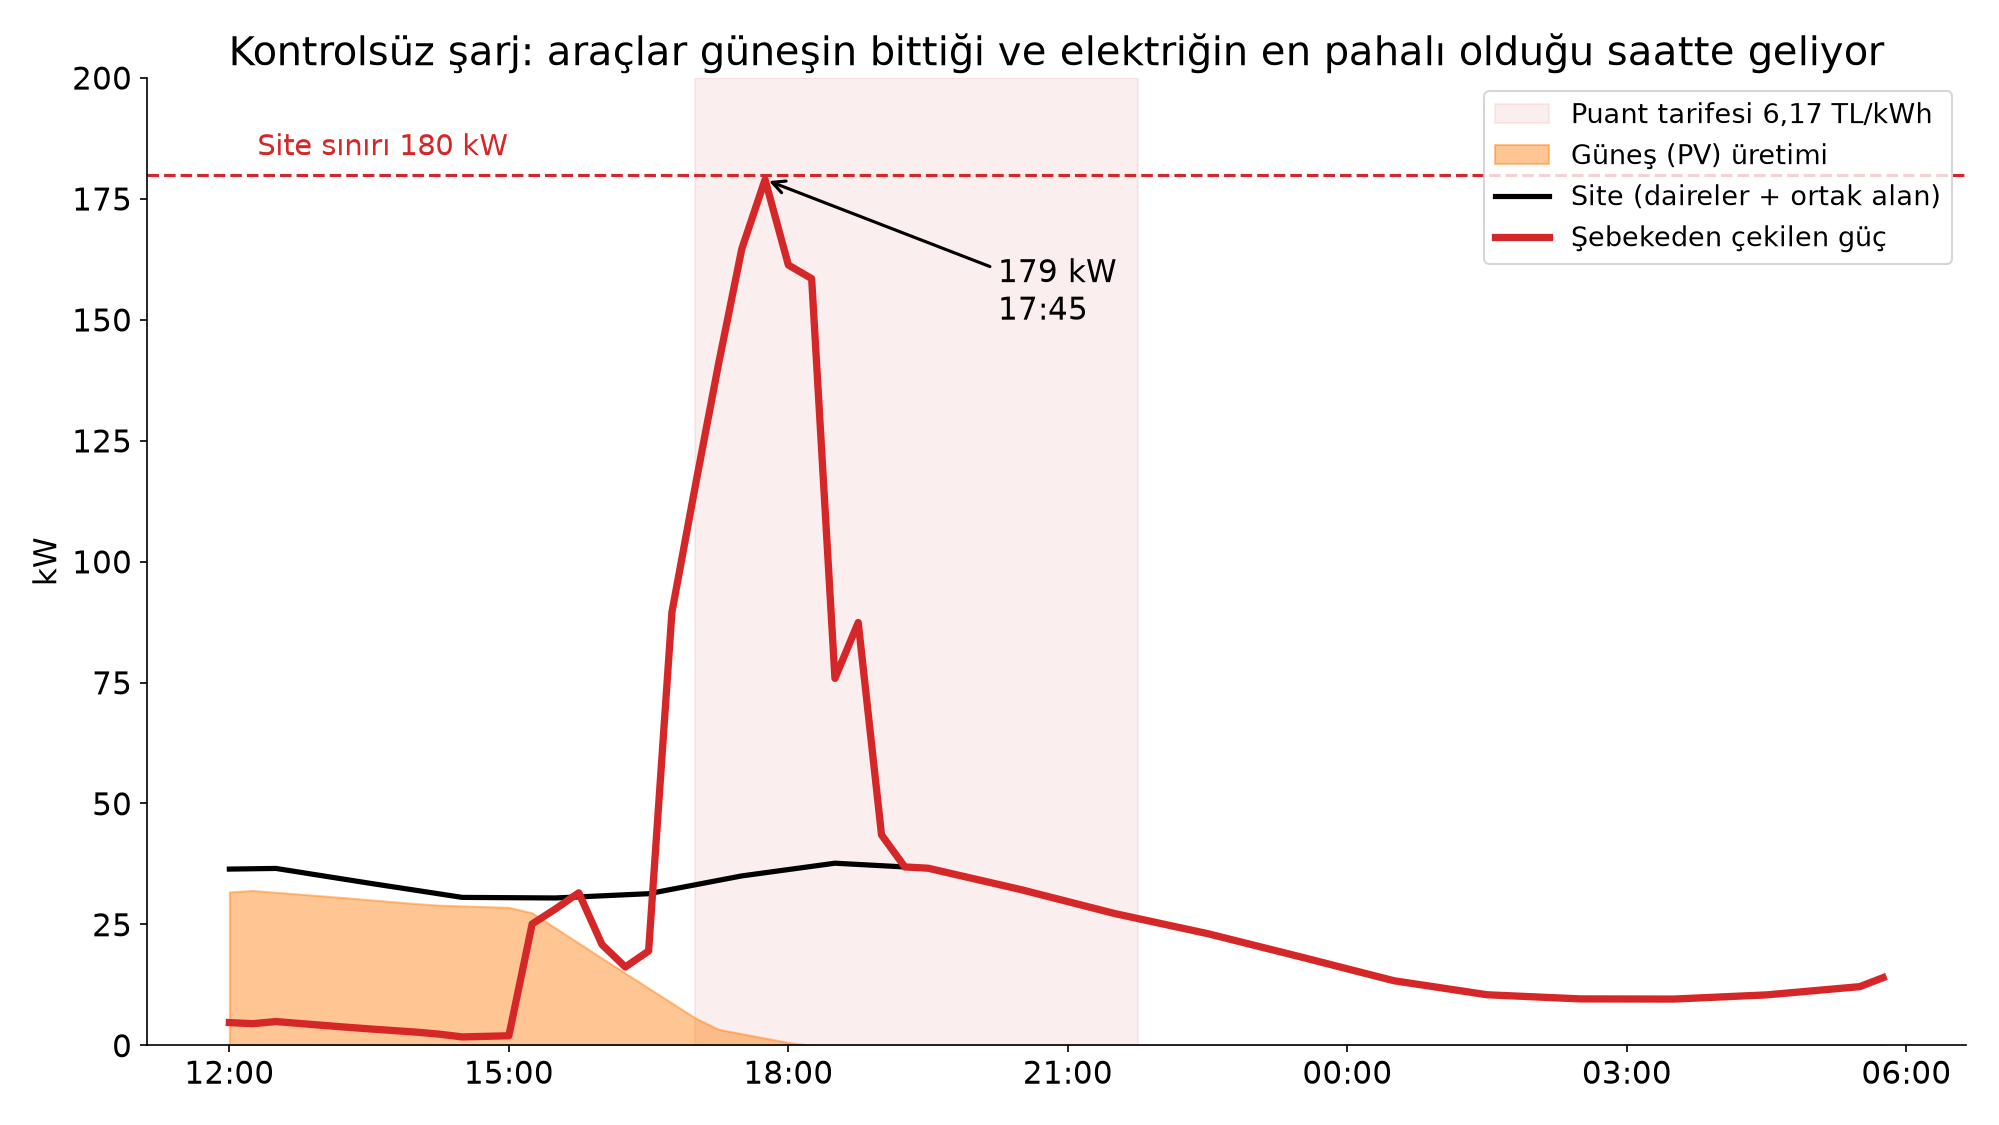
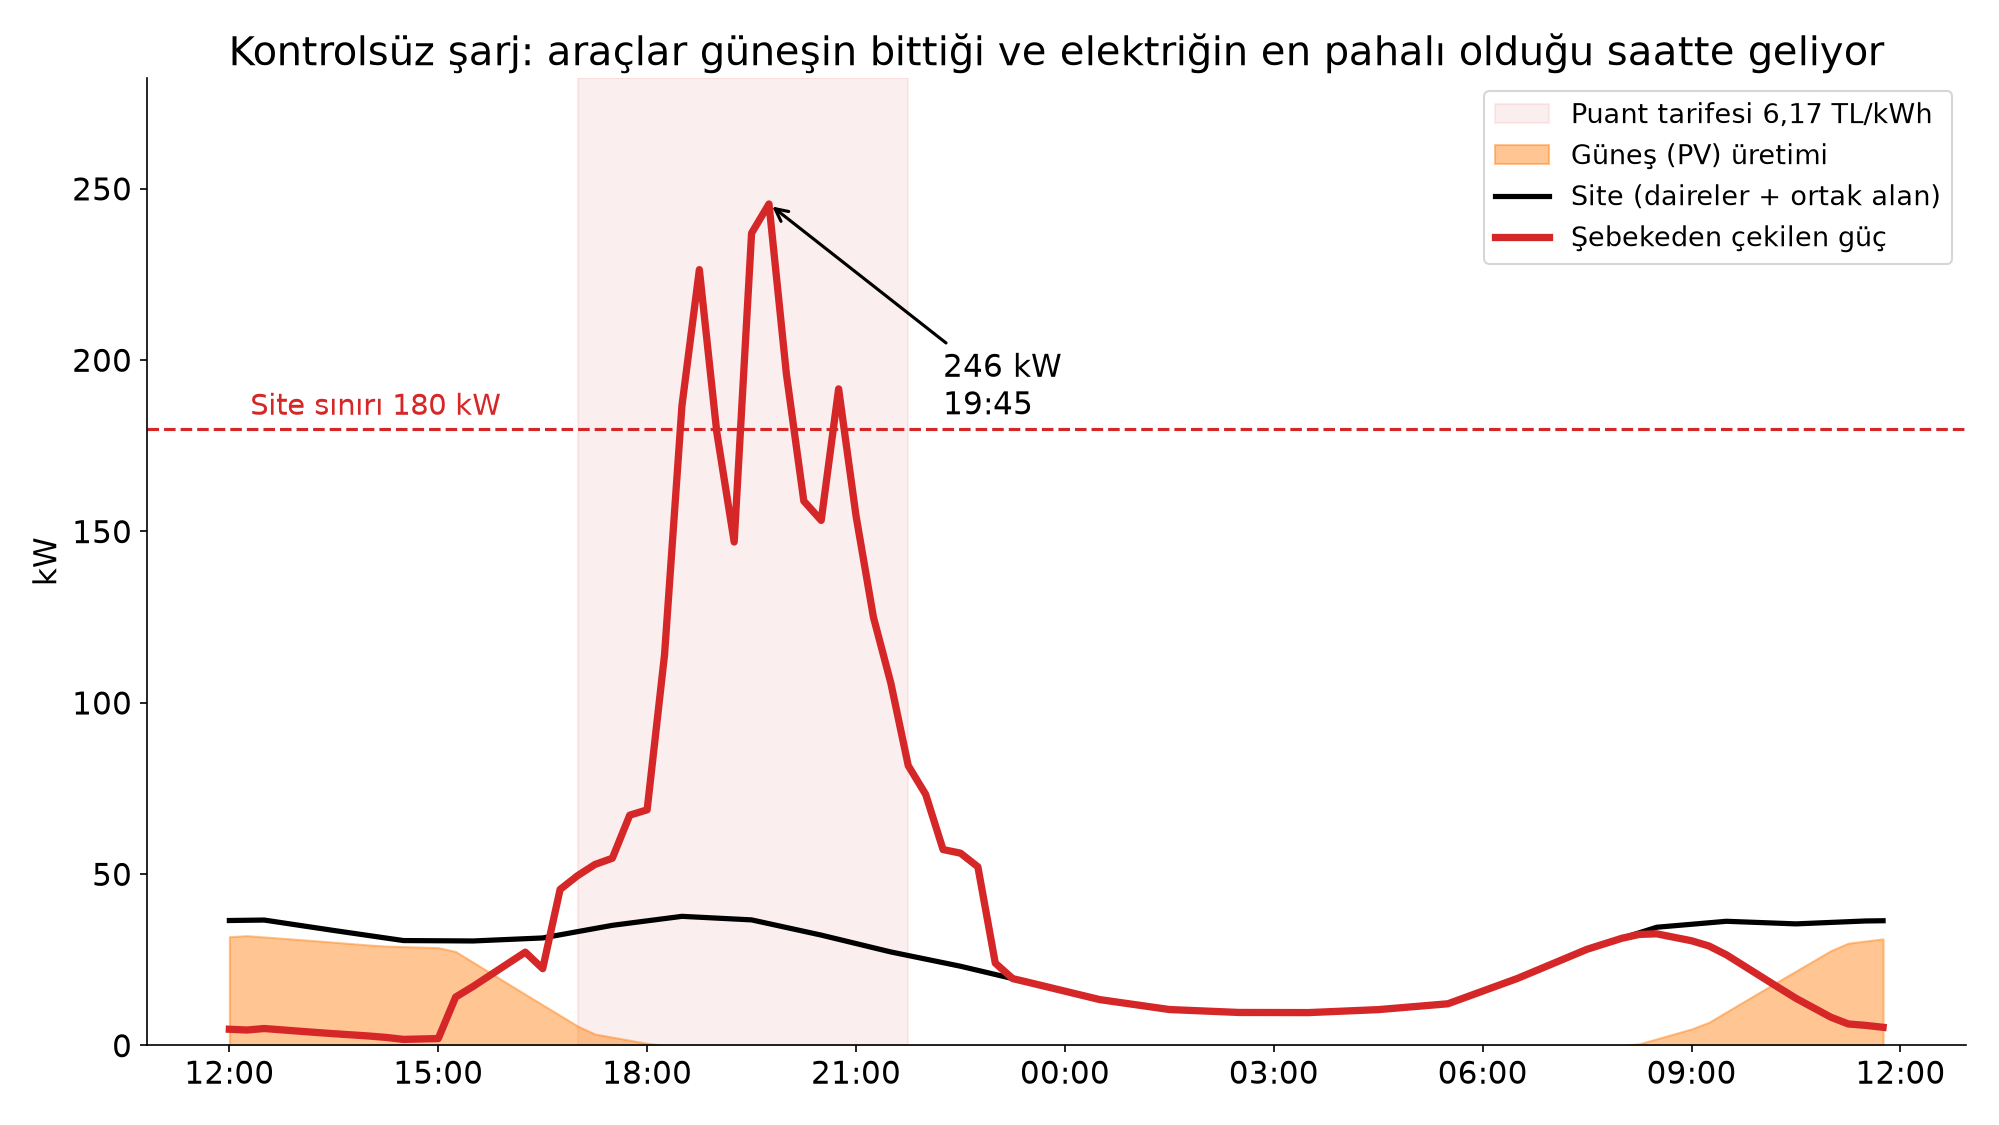
YM-1 Hafta 8-10: sonuçlar gerçek istasyon (YM-2) ve EMS (YM-3) ile yeniden üretildi
- Senaryo tablosu S1-S6 yıllık, pandapower ile; araçlara verilen enerji satırı ve okuma notu
- Duyarlılık: batarya analizi S4 ile; geçici batarya kuralı kaldırıldı
- Sunum grafikleri gerçek istasyonla; başlık ve eksenler veriden
- Hafta 9 raporu ve Veri ve Yöntem bölümü yeni sonuçlarla güncellendi

diff --git a/scripts/ym1_sunum_grafikleri.py b/scripts/ym1_sunum_grafikleri.py
@@ -19,8 +19,7 @@ from microgrid.data import seasons
 from microgrid.data.inputs import build_inputs
 from microgrid.kpi import annualize, compute
 from microgrid.sim.loop import run
-from microgrid.sim.mocks import MockStation, SimpleBattery, UncontrolledEMS
-from microgrid.sim.scenarios import Scenario
+from microgrid.sim.scenarios import SCENARIOS, Scenario
 
 plt.rcParams.update({"font.size": 15, "axes.titlesize": 19, "axes.labelsize": 15, "legend.fontsize": 13,
                      "axes.spines.top": False, "axes.spines.right": False})
@@ -45,13 +44,13 @@ def day_index(start):
 # 1. Sorun: araçlar PV'nin bittiği ve elektriğin en pahalı olduğu saatte geliyor (Aralık temsili günü)
 c = copy.deepcopy(cfg)
 idx = day_index("2023-12-20 12:00")
-s2 = run(c, build_inputs(c, idx), MockStation(c, idx[0]), UncontrolledEMS(), SimpleBattery(c)).steps
-# 12:00 -> 06:00: sabahki ikinci tepe sahte istasyondan (akşam sırada kalan araçlar), sunumda gösterilmiyor
-s2 = s2.iloc[: 18 * 4]
+sc2 = SCENARIOS["S2 Kontrolsüz şarj"]   # YM-2 istasyonu, kontrolsüz şarj
+s2 = run(c, build_inputs(c, idx), sc2.station(c, idx[0]), sc2.ems(c), sc2.battery(c)).steps
 x = np.arange(len(s2)) / 4
 fig, ax = plt.subplots(figsize=SIZE)
+top = max(s2["grid_kw"].max(), limit) * 1.15
 puant = (s2.index.hour >= 17) & (s2.index.hour < 22)
-ax.fill_between(x, 0, 200, where=puant, color="tab:red", alpha=0.08, step="post", label="Puant tarifesi 6,17 TL/kWh")
+ax.fill_between(x, 0, top, where=puant, color="tab:red", alpha=0.08, step="post", label="Puant tarifesi 6,17 TL/kWh")
 ax.fill_between(x, s2["pv_kw"], color="tab:orange", alpha=0.45, label="Güneş (PV) üretimi")
 ax.plot(x, s2["base_load_kw"], color="black", lw=2.5, label="Site (daireler + ortak alan)")
 ax.plot(x, s2["grid_kw"], color="tab:red", lw=3.5, label="Şebekeden çekilen güç")
@@ -59,10 +58,10 @@ ax.axhline(limit, color="tab:red", ls="--", lw=1.5)
 ax.text(0.3, limit + 4, f"Site sınırı {limit} kW", color="tab:red", fontsize=14)
 peak = s2["grid_kw"].idxmax()
 ax.annotate(f"{s2['grid_kw'].max():.0f} kW\n{peak:%H:%M}", xy=(x[s2.index.get_loc(peak)], s2["grid_kw"].max()),
-            xytext=(x[s2.index.get_loc(peak)] + 2.5, 150), arrowprops={"arrowstyle": "->", "lw": 1.5}, fontsize=15)
-ticks = np.arange(0, 19, 3)
+            xytext=(x[s2.index.get_loc(peak)] + 2.5, 0.75 * s2["grid_kw"].max()), arrowprops={"arrowstyle": "->", "lw": 1.5}, fontsize=15)
+ticks = np.arange(0, 25, 3)
 ax.set_xticks(ticks, [f"{(12 + t) % 24:02d}:00" for t in ticks])
-ax.set(ylim=(0, 200), ylabel="kW", title="Kontrolsüz şarj: araçlar güneşin bittiği ve elektriğin en pahalı olduğu saatte geliyor")
+ax.set(ylim=(0, top), ylabel="kW", title="Kontrolsüz şarj: araçlar güneşin bittiği ve elektriğin en pahalı olduğu saatte geliyor")
 ax.legend(loc="upper right")
 save(fig, "ym1-1-sorun-aralik-gunu.png")
 
@@ -88,7 +87,7 @@ fig.suptitle(f"İstasyonun etkisi: maliyet {ratio('maliyet_tl')} katına, tepe y
 save(fig, "ym1-2-istasyon-etkisi.png")
 
 # 3. Duyarlılık: araç sayısı ve tepe yük
-df = sweep(cfg, Scenario("S2"), "vehicles.count", [0, 5, 10, 15, 20, 25, 30])
+df = sweep(cfg, Scenario("S2"), "vehicles.count", [0, 2, 4, 6, 8, 10, 15, 20, 25, 30])
 fig, ax = plt.subplots(figsize=SIZE)
 peaks = df["tepe_alim_kw"].astype(float)
 ax.plot(df.index, peaks, marker="o", ms=10, lw=3, color="black", label="Yılın en yüksek şebeke yükü")
@@ -96,8 +95,10 @@ ax.axhline(limit, color="tab:red", ls="--", lw=2, label=f"Site sınırı {limit}
 ax.fill_between(df.index, limit, peaks, where=peaks > limit, color="tab:red", alpha=0.2, interpolate=True)
 ax.axvline(cfg["vehicles"]["count"], color="gray", ls=":", lw=2)
 ax.text(cfg["vehicles"]["count"] + 0.3, 30, "Mevcut tasarım\n(20 araç)", color="gray", fontsize=14)
+over = peaks[peaks > limit]
+first = f"{over.index[0]} araçta" if len(over) else "incelenen aralıkta"
 ax.set(xlabel="Araç sayısı", ylabel="kW", ylim=(0, peaks.max() * 1.15),
-       title="Kontrolsüz şarjda 20 araç sınırın kıyısında, 25 araçta site sınırı aşılıyor")
+       title=f"Kontrolsüz şarjda site sınırı {first} aşılıyor (mevcut tasarım {cfg['vehicles']['count']} araç)")
 ax.legend(loc="upper left")
 save(fig, "ym1-3-arac-sayisi.png")
 
@@ -107,8 +108,9 @@ full_cfg = copy.deepcopy(c1)
 full_cfg["inputs"]["mode"] = "actual"
 year = cfg["loads"]["year"]
 idx = pd.date_range(pd.Timestamp(f"{year}-01-01", tz="Europe/Istanbul"), periods=365 * 96, freq="15min")
-full = compute(run(full_cfg, build_inputs(full_cfg, idx), MockStation(full_cfg, idx[0]), UncontrolledEMS(),
-                   SimpleBattery(full_cfg)).steps, full_cfg)
+s1 = Scenario("S1")
+full = compute(run(full_cfg, build_inputs(full_cfg, idx), s1.station(full_cfg, idx[0]), s1.ems(full_cfg),
+                   s1.battery(full_cfg)).steps, full_cfg)
 errs = {}
 for n, label in [(1, "8 gün\nmevsim × gün tipi"), (2, "16 gün\n+ güneşli/bulutlu"), (3, "24 gün\n+ bulutlu/orta/güneşli")]:
     k, _ = run_year(scenario_config(c1, Scenario("S1"), {"inputs.sky_classes": n}), Scenario("S1"))

diff --git a/scripts/ym1_hafta9_duyarlilik.py b/scripts/ym1_hafta9_duyarlilik.py
@@ -1,9 +1,8 @@
 """Hafta 9 (YM-1): duyarlılık analizi. Araç sayısı, PV gücü ve batarya boyutu yıllık KPI'ları nasıl değiştiriyor?
 
 Her nokta 24 temsili günden yıllık tahmin (data/seasons.py, kpi.annualize). Hız için yük akışı yok.
-- Araç sayısı ve PV gücü: Senaryo 2 (kontrolsüz şarj, sahte istasyon).
-- Batarya boyutu: senaryo listesinde (sim/scenarios.py) YM-3'ün "S4 Akıllı şarj + batarya" senaryosu varsa onunla;
-  yoksa GEÇİCİ basit batarya kuralıyla (aşağıda). YM-3'ün EMS'i ana koda girince betik kendiliğinden onu kullanır.
+- Araç sayısı ve PV gücü: Senaryo 2 (kontrolsüz şarj, YM-2 istasyonu).
+- Batarya boyutu: Senaryo 4 (YM-3 kural tabanlı EMS + batarya, YM-2 istasyonu).
 
 Önce veri:  python -m microgrid.data
 Sonra:      python scripts/ym1_hafta9_duyarlilik.py
@@ -19,42 +18,17 @@ import matplotlib.pyplot as plt
 
 from microgrid.analysis import run_year, scenario_config, sweep
 from microgrid.config import REPO_ROOT, load_config
-from microgrid.data.tariff import period_at
-from microgrid.interfaces import Decision
-from microgrid.sim.mocks import SimpleBattery, UncontrolledEMS
+from microgrid.sim.mocks import SimpleBattery
 from microgrid.sim.scenarios import SCENARIOS, Scenario
-
-
-class BatteryRuleEMS(UncontrolledEMS):
-    """GEÇİCİ (YM-3 EMS'i gelene kadar): araçlar kontrolsüz; batarya PV fazlasını saklar, puantta alımı karşılar.
-
-    Gece şebekeden şarj etmez; bu yüzden kışın PV az olduğunda bataryanın etkisi sınırlı kalır.
-    """
-
-    def __init__(self, cfg):
-        self.cfg = cfg
-
-    def decide(self, inp):
-        ev = super().decide(inp).ev_kw
-        net = inp.base_load_kw + sum(ev.values()) - inp.pv_kw       # bataryasız şebeke alımı
-        if net < 0:
-            bess = -net                                             # fazla PV -> bataryaya
-        elif period_at(self.cfg, inp.ctx.hour)["name"] == "puant":
-            bess = -net                                             # puantta alımı bataryadan karşıla
-        else:
-            bess = 0.0
-        return Decision(ev_kw=ev, bess_kw=bess)
-
 
 cfg = load_config()
 s2 = Scenario("S2 kontrolsüz")
-s4 = next((sc for name, sc in SCENARIOS.items() if name.startswith("S4")), None)
-s_bess = s4 or Scenario("S2 + batarya kuralı (geçici)", ems=lambda c: BatteryRuleEMS(c),
-                        battery=lambda c: SimpleBattery(c))
+s_bess = SCENARIOS["S4 Akıllı şarj + batarya"]
 
 
 def battery_sweep(scenario, path, values):
-    """Batarya kapasitesi 0 noktası, 0 kWh'i kaldırabilen SimpleBattery ile ("batarya yok") hesaplanır."""
+    """Batarya kapasitesi 0 noktası "batarya yok" olarak hesaplanır: YM-3'ün BESS'i 0 kWh'te sıfıra böler,
+    SimpleBattery ise 0 kapasitede hiçbir şey yapmaz."""
     rows = []
     if 0 in values:
         no_bess = dataclasses.replace(scenario, battery=lambda c: SimpleBattery(c))

diff --git a/scripts/ym1_hafta8_senaryolar.py b/scripts/ym1_hafta8_senaryolar.py
@@ -5,9 +5,14 @@ YM-2 istasyonu ve YM-3 EMS'i oraya eklendikçe tablo kendiliğinden genişler; B
 olmayan sütunları "bekleniyor" diye göstermek için. Geçici (sahte modülle çalışan) senaryolar dipnotla işaretlenir.
 
 Önce veri:  python -m microgrid.data
-Sonra:      python scripts/ym1_hafta8_senaryolar.py
+Sonra:      python scripts/ym1_hafta8_senaryolar.py            (~30 dk; MILP senaryoları yavaş)
+            python scripts/ym1_hafta8_senaryolar.py --kayitli  (yalnızca tabloyu results/senaryo_tablosu.csv'den yeniden yazar)
 Çıktı: results/senaryo_tablosu.csv, docs/raporlar/hafta8-ym1-senaryolar.md (rapora girecek tablo)
 """
+import sys
+
+import pandas as pd
+
 from microgrid.analysis import scenario_table
 from microgrid.config import REPO_ROOT, load_config
 from microgrid.grid import PandapowerGrid
@@ -19,6 +24,7 @@ BEKLENEN = [b for b in BEKLENEN if not any(name.startswith(b[:2]) for name in SC
 ROWS = {  # rapordaki tablo: (KPI, başlık, biçim)
     "maliyet_tl": ("Yıllık maliyet", "{:,.0f} TL"),
     "tepe_alim_kw": ("Yılın tepe alımı", "{:.0f} kW"),
+    "arac_sarj_kwh": ("Araçlara verilen enerji", "{:,.0f} kWh"),
     "alim_puant_kwh": ("Puantta alım", "{:,.0f} kWh"),
     "arac_sarj_puant_payi": ("Araç şarjının puant payı", "%{:.0%}"),
     "yenilenebilir_payi": ("Yenilenebilir payı", "%{:.0%}"),
@@ -46,10 +52,13 @@ def fmt(value, pattern):
 
 cfg = load_config()
 scenarios = list(SCENARIOS.values())
-table = scenario_table(scenarios, cfg, grid=PandapowerGrid(cfg))
 out_csv = REPO_ROOT / "results" / "senaryo_tablosu.csv"
-out_csv.parent.mkdir(exist_ok=True)
-table.to_csv(out_csv)
+if "--kayitli" in sys.argv:
+    table = pd.read_csv(out_csv, index_col=0)
+else:
+    table = scenario_table(scenarios, cfg, grid=PandapowerGrid(cfg))
+    out_csv.parent.mkdir(exist_ok=True)
+    table.to_csv(out_csv)
 
 names = [s.name for s in scenarios]
 header = "| KPI | " + " | ".join(names + BEKLENEN) + " |"
@@ -67,7 +76,9 @@ out_md.write_text(
     f"{md}\n\n"
     + "".join(f"- {s.name}: {s.description}" + (" **Geçici:** sahte modülle çalışıyor.\n" if s.temporary and "GEÇİCİ" not in s.description else "\n")
               for s in scenarios)
-    + "\n\"bekleniyor\" sütunları YM-2 istasyon modeli ve YM-3 EMS'i senaryo listesine eklenince aynı betikle dolacak.\n",
+    + ("\n\"bekleniyor\" sütunları ilgili modüller senaryo listesine eklenince aynı betikle dolacak.\n" if BEKLENEN else "")
+    + "\n**Okurken dikkat:** \"Araçlara verilen enerji\" senaryolar arasında farklı. Bir EMS araçlara daha az enerji "
+    "veriyorsa maliyeti de düşük çıkar; maliyet karşılaştırması bu satırla birlikte okunmalı.\n",
     encoding="utf-8",
 )
 print(md)

diff --git a/docs/raporlar/hafta8-ym1-senaryolar.md b/docs/raporlar/hafta8-ym1-senaryolar.md
@@ -2,21 +2,25 @@
 
 Bandırma, 24 temsili gün (4 mevsim × 2 gün tipi × 3 gökyüzü) → yıl; pandapower yük akışıyla. Üreten betik: `scripts/ym1_hafta8_senaryolar.py`.
 
-| KPI | S1 Temel (araç yok) | S2 Kontrolsüz şarj | S3 Akıllı şarj (geçici) | S4 akıllı şarj + batarya | S5 optimizasyonlu EMS | S6 V2G |
+| KPI | S1 Temel (araç yok) | S2 Kontrolsüz şarj | S3 Akıllı şarj | S4 Akıllı şarj + batarya | S5 Optimizasyon (MILP) | S6 V2G (MILP) |
 | --- | --- | --- | --- | --- | --- | --- |
-| Yıllık maliyet | 524.955 TL | 1.248.705 TL | 999.098 TL | bekleniyor | bekleniyor | bekleniyor |
-| Yılın tepe alımı | 38 kW | 179 kW | 153 kW | bekleniyor | bekleniyor | bekleniyor |
-| Puantta alım | 41.861 kWh | 115.296 kWh | 41.861 kWh | bekleniyor | bekleniyor | bekleniyor |
-| Araç şarjının puant payı | — | %53 | %1 | bekleniyor | bekleniyor | bekleniyor |
-| Yenilenebilir payı | %42 | %26 | %26 | bekleniyor | bekleniyor | bekleniyor |
-| Öz tüketim | %63 | %68 | %68 | bekleniyor | bekleniyor | bekleniyor |
-| Site sınırı (180 kW) aşımı | 0 kWh | 0 kWh | 0 kWh | bekleniyor | bekleniyor | bekleniyor |
-| En düşük gerilim | 0,988 p.u. | 0,972 p.u. | 0,976 p.u. | bekleniyor | bekleniyor | bekleniyor |
-| En yüksek kablo yüklenmesi | %28 | %80 | %68 | bekleniyor | bekleniyor | bekleniyor |
-| En yüksek trafo yüklenmesi | %13 | %47 | %39 | bekleniyor | bekleniyor | bekleniyor |
+| Yıllık maliyet | 524.955 TL | 1.774.527 TL | 1.146.916 TL | 983.224 TL | 910.695 TL | 910.327 TL |
+| Yılın tepe alımı | 38 kW | 246 kW | 163 kW | 163 kW | 180 kW | 180 kW |
+| Araçlara verilen enerji | 0 kWh | 215.384 kWh | 177.214 kWh | 177.214 kWh | 203.687 kWh | 206.087 kWh |
+| Puantta alım | 41.861 kWh | 235.436 kWh | 46.737 kWh | 11.098 kWh | 545 kWh | 0 kWh |
+| Araç şarjının puant payı | — | %90 | %3 | %3 | %2 | %2 |
+| Yenilenebilir payı | %42 | %22 | %24 | %29 | %30 | %30 |
+| Öz tüketim | %63 | %67 | %67 | %82 | %91 | %91 |
+| Site sınırı (180 kW) aşımı | 0 kWh | 14.587 kWh | 0 kWh | 0 kWh | 0 kWh | 0 kWh |
+| En düşük gerilim | 0,988 p.u. | 0,960 p.u. | 0,973 p.u. | 0,973 p.u. | 0,969 p.u. | 0,969 p.u. |
+| En yüksek kablo yüklenmesi | %28 | %117 | %81 | %81 | %94 | %94 |
+| En yüksek trafo yüklenmesi | %13 | %64 | %42 | %42 | %47 | %47 |
 
 - S1 Temel (araç yok): Karşılaştırma tabanı: istasyon boş, yalnızca PV + sabit yük + şebeke.
-- S2 Kontrolsüz şarj: Araç geldiği an tam güçle şarj olur, batarya kullanılmaz. Sorunun görüldüğü senaryo. **Geçici:** sahte modülle çalışıyor.
-- S3 Akıllı şarj (geçici): Gece tarifesine kaydırma + PV fazlası + sınırlara uyum. GEÇİCİ: YM-4'ün referans kuralı; YM-3'ün kural tabanlı EMS'i gelince onunla değiştirilecek.
+- S2 Kontrolsüz şarj: Araç geldiği an tam güçle şarj olur, batarya kullanılmaz. Sorunun görüldüğü senaryo.
+- S3 Akıllı şarj: Kural tabanlı EMS (YM-3): şarj ayrılışa kadar en ucuz tarife adımlarına eşit yayılır, SOC < 0.30 olan araç hemen taban SOC'ye çıkarılır, PV fazlası araçlara verilir, istasyon ve site sınırlarına uyulur. Batarya yok.
+- S4 Akıllı şarj + batarya: S3'ün araç kuralı + 200 kWh / 100 kW batarya (YM-3): puantta yükü bataryadan karşılar, gece ucuz tarifede ve PV fazlasıyla dolar, site sınırını aşacak anda devreye girer.
+- S5 Optimizasyon (MILP): Maliyeti en aza indiren kayan ufuklu MILP (YM-3, PuLP): her adımda bağlı araçlar, batarya, istasyon ve site sınırlarıyla gün sonuna kadar çözülür, ilk adım uygulanır. Tepe alımı küçük ağırlıkla bastırılır.
+- S6 V2G (MILP): S5'e V2G eklenir (YM-3 EMS + YM-2 istasyonu): araç kataloğunda V2G'ye uygun araçlar şebekeye geri verebilir. Araç SOC'si vehicles.v2g_min_soc altına inmez, ayrılışta hedef SOC garanti. Karşılaştırma tabanı: S5.
 
-"bekleniyor" sütunları YM-2 istasyon modeli ve YM-3 EMS'i senaryo listesine eklenince aynı betikle dolacak.
+**Okurken dikkat:** "Araçlara verilen enerji" senaryolar arasında farklı. Bir EMS araçlara daha az enerji veriyorsa maliyeti de düşük çıkar; maliyet karşılaştırması bu satırla birlikte okunmalı.

diff --git a/docs/rapor/ym1-veri-ve-yontem.md b/docs/rapor/ym1-veri-ve-yontem.md
@@ -88,8 +88,8 @@ toplamı her durumda birebir korunur.
 Bataryanın temsili günlerde bedava enerji kazanmaması için gün döngüsel çalıştırılır: her temsili gün, bataryanın
 bir önceki çalıştırmada bittiği doluluk ile yeniden başlatılır (iki ısınma turu).
 
-Kritik an tespiti için temsili günler ayrıca kullanılabilir: yılın en yüksek şebeke yükü kışın bulutlu bir hafta
-içi günü, 17:45 civarında oluşur.
+Kritik an tespiti için temsili günler ayrıca kullanılabilir: kontrolsüz şarjda (Senaryo 2) yılın en yüksek şebeke
+yükü kışın bir hafta içi günü, 19:45 civarında oluşur (246 kW). Akıllı şarjda tepe gece ucuz tarife dilimine kayar.
 
 ## 5. Ertesi gün tahmini
 
